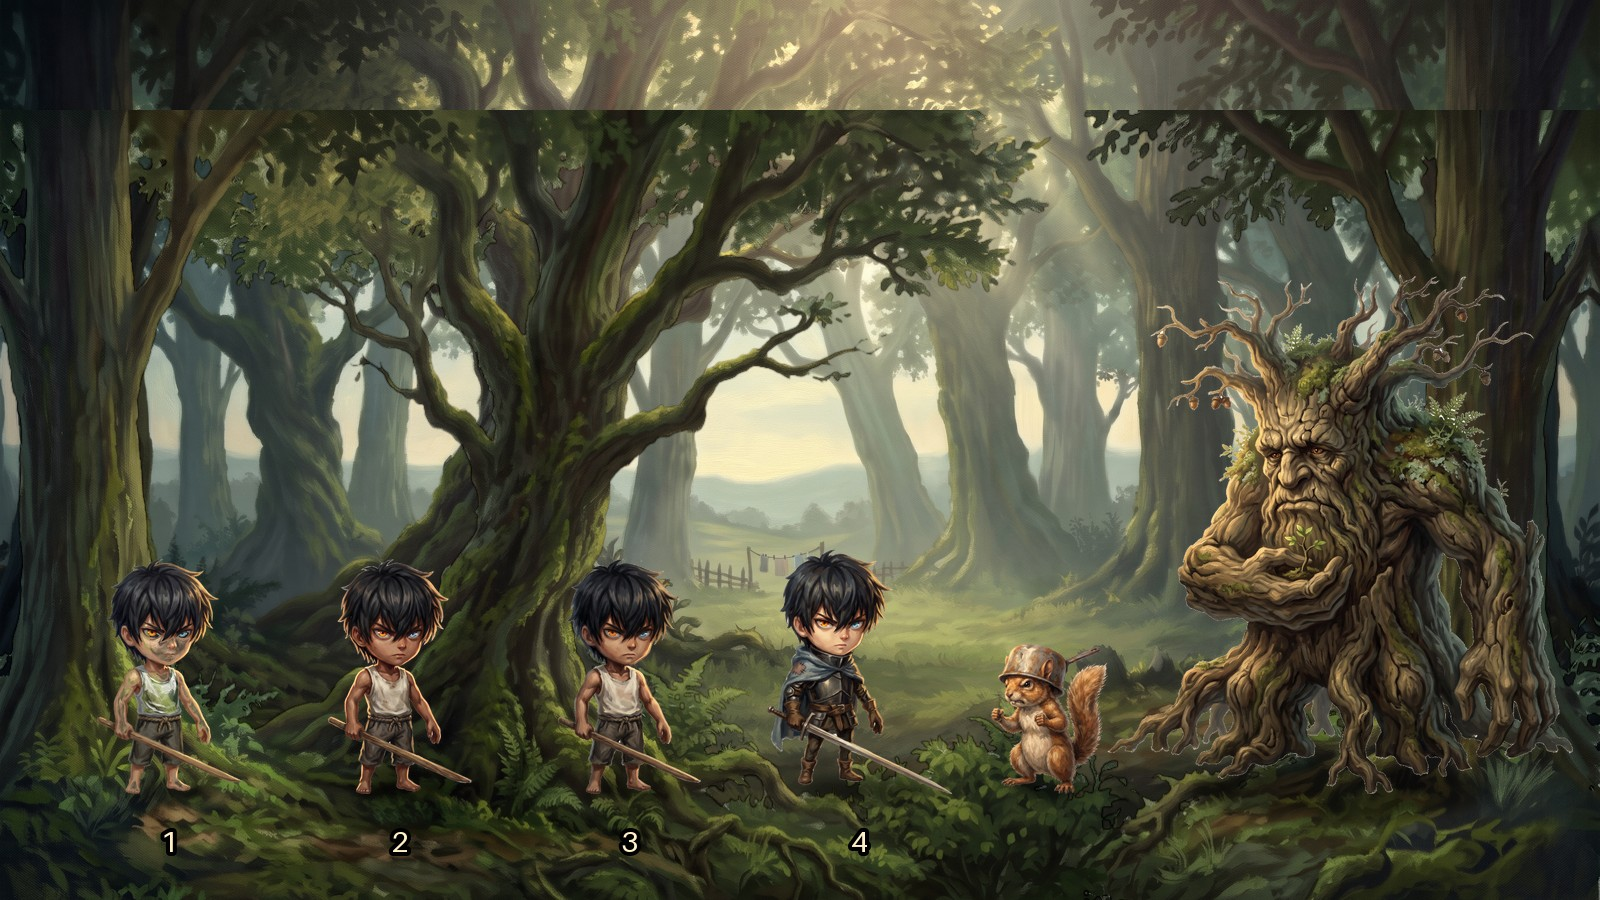
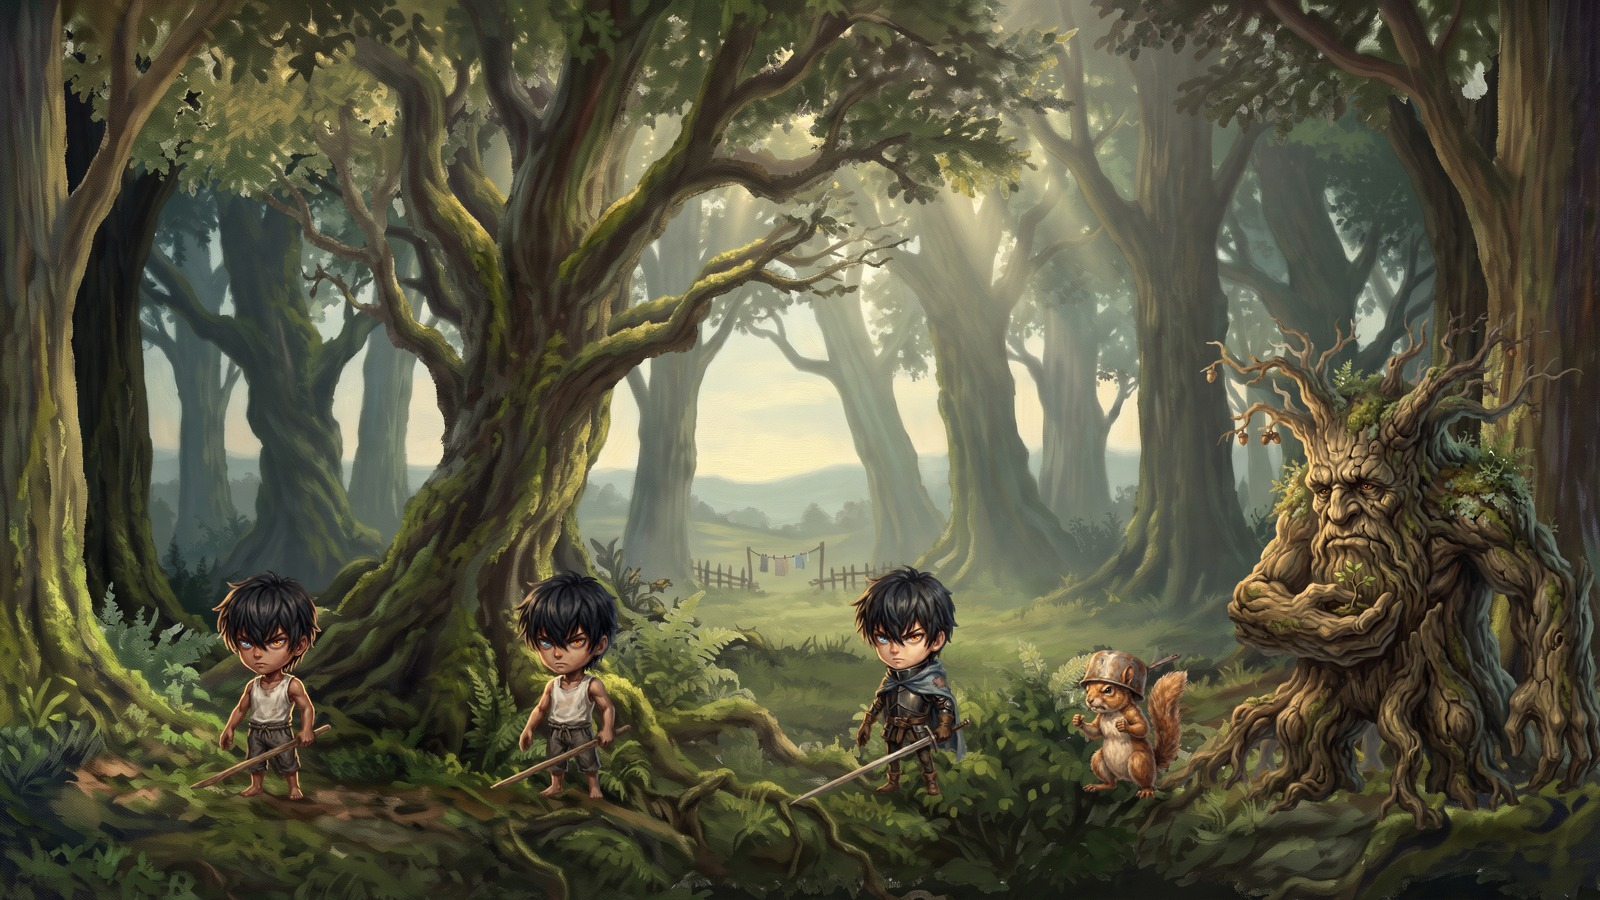
누끼를 원본 크기로 다시 따고 손가락 사이 흰 틈과 테두리 흰 기운을 없앴다
새 도구 tools/cutout2.py: 갇힌 흰 틈을 작은 것까지 지우고 테두리 색을 안쪽 색으로 고친다.

Claude-Session: https://claude.ai/code/session_019ctizXgKMq2Zc4rqnxPXRD

diff --git a/tools/cutout2.py b/tools/cutout2.py
@@ -1,0 +1,131 @@
+#!/usr/bin/env python3
+"""흰 배경 그림(유화풍 캐릭터·몬스터·무기)을 투명한 PNG로 만든다. 원본 크기 그대로 딴다.
+
+  python3 tools/cutout2.py 입력.png 출력.png [--눈=x0,y0,x1,y1]
+
+- 가장자리와 이어진 흰 배경을 지운다.
+- 손가락 사이, 팔과 몸 사이, 다리 사이처럼 사방이 막힌 곳에 갇힌 순백도 작은 것까지 지운다.
+- 테두리에 묻은 흰 기운을 안쪽 색으로 바꿔서, 어두운 배경에 올려도 밝은 띠가 생기지 않는다.
+- 눈의 반짝임처럼 지우면 안 되는 흰 점은 --눈 으로 네모 칸을 알려 주면 남긴다(여러 번 줄 수 있다).
+- 그래도 남는 깊은 틈(쥔 손 안쪽 등)은 --틈=x0,y0,x1,y1 로 네모 칸을 짚어 주면 그 안의 흰색을 지운다.
+- 나무가 가장자리까지 꽉 찬 배경 겹은 --흰종이 를 붙인다.
+- 다 딴 뒤에는 반드시 어두운 바탕과 분홍 바탕에 올려 확대해서 확인한다(tools/cutout2.py --확인 그림.png 확인.jpg).
+"""
+import sys
+import numpy as np
+from PIL import Image
+from scipy import ndimage as nd
+
+PAPER = 12       # 종이색에서 이만큼 안쪽이면 종이로 본다
+LOW, HIGH = 10, 60  # 가장자리에서 반투명이 시작되는 / 완전히 불투명해지는 차이
+POCKET_MIN = 12  # 이 넓이(픽셀, 2048 기준)보다 큰 갇힌 흰 덩어리를 지운다
+BAND = 5         # 테두리에서 이 폭(픽셀)만큼 흰 기운을 걷어 낸다
+
+
+def cutout(src, dst, keep=(), flip=False, holes=(), paper=None):
+    im = Image.open(src).convert('RGB')
+    if flip:
+        im = im.transpose(Image.FLIP_LEFT_RIGHT)
+    a = np.asarray(im).astype(np.float32)
+    h, w = a.shape[:2]
+    k = max(w, h) / 2048.0
+    edge = np.concatenate([a[:12].reshape(-1, 3), a[-12:].reshape(-1, 3), a[:, :12].reshape(-1, 3), a[:, -12:].reshape(-1, 3)])
+    # 그림이 가장자리까지 꽉 찬 배경 겹은 가장자리 색이 종이색이 아니다. 그럴 땐 paper=(255,255,255)를 준다.
+    paper = np.median(edge, axis=0) if paper is None else np.array(paper, np.float32)
+    dist = np.abs(a - paper).max(axis=2)
+
+    lab, n = nd.label(dist < PAPER)
+    outer_ids = np.unique(np.concatenate([lab[0], lab[-1], lab[:, 0], lab[:, -1]]))
+    outer_ids = outer_ids[outer_ids > 0]
+    bg = np.isin(lab, outer_ids)
+    # 갇힌 흰 틈
+    sizes = nd.sum(np.ones_like(lab), lab, np.arange(1, n + 1))
+    objs = nd.find_objects(lab)
+    removed, kept = [], []
+    for i in range(n):
+        if (i + 1) in outer_ids or sizes[i] < POCKET_MIN * k * k:
+            continue
+        ys, xs = objs[i]
+        cx, cy = (xs.start + xs.stop) // 2, (ys.start + ys.stop) // 2
+        if any(x0 <= cx <= x1 and y0 <= cy <= y1 for x0, y0, x1, y1 in keep):
+            kept.append((int(sizes[i]), cx, cy))
+            continue
+        bg |= lab == i + 1
+        removed.append((int(sizes[i]), cx, cy))
+
+    # 손으로 짚어 준 틈: 그 네모 칸 안의 밝은 점을 전부 배경으로 본다
+    for x0, y0, x1, y1 in holes:
+        bg[y0:y1, x0:x1] |= dist[y0:y1, x0:x1] < 60
+
+    # 틈의 꼬리: 손가락 사이처럼 한두 픽셀 폭으로 가늘게 이어지는 흰 금은 조각조각 끊겨서 위에서 빠진다.
+    # 이미 지운 배경 바로 곁(4픽셀 안)에 있는 밝은 조각을 크기와 상관없이 따라가며 지운다.
+    lab2, n2 = nd.label(dist < 30)
+    reach = max(2, round(4 * k))
+    for _ in range(12):
+        touch = np.unique(lab2[nd.binary_dilation(bg, iterations=reach) & ~bg])
+        touch = touch[touch > 0]
+        add = np.isin(lab2, touch) & ~bg
+        for x0, y0, x1, y1 in keep:
+            add[y0:y1, x0:x1] = False
+        # 손가락 사이의 외딴 실금: 순백에 가까운 작은 조각이 배경에서 14픽셀 안에 있으면 지운다
+        far = np.unique(lab[nd.binary_dilation(bg, iterations=round(14 * k)) & ~bg])
+        far = far[far > 0]
+        far = far[sizes[far - 1] >= 3]
+        add |= np.isin(lab, far) & ~bg
+        for x0, y0, x1, y1 in keep:
+            add[y0:y1, x0:x1] = False
+        if not add.any():
+            break
+        bg |= add
+
+    # 배경 바로 옆의 밝은 번짐까지 반투명으로
+    near = nd.binary_dilation(bg, iterations=max(2, round(4 * k)))
+    soft = np.clip((dist - LOW) / (HIGH - LOW), 0, 1)
+    alpha = np.where(bg, 0.0, np.where(near, soft, 1.0))
+
+    # 테두리 색 고치기: 테두리 띠에서, 안쪽보다 밝은(=흰 기운이 묻은) 점은 가장 가까운 안쪽 색으로 바꾼다
+    solid = alpha >= 0.999
+    inner = nd.binary_erosion(solid, iterations=max(2, round(BAND * k)))
+    if inner.any():
+        _, (iy, ix) = nd.distance_transform_edt(~inner, return_indices=True)
+        srcc = a[iy, ix]
+        band = ~inner & (alpha > 0)
+        lum = a @ np.array([.299, .587, .114], np.float32)
+        slum = srcc @ np.array([.299, .587, .114], np.float32)
+        # 흰색 쪽으로 물든 정도: 밝아졌고 채도도 빠진 점
+        sat = a.max(2) - a.min(2)
+        ssat = srcc.max(2) - srcc.min(2)
+        fix = band & (lum > slum + 10) & ((alpha < 0.999) | (sat < ssat + 6))
+        a = np.where(fix[..., None], srcc, a)
+    out = np.dstack([np.clip(a, 0, 255), alpha * 255]).astype(np.uint8)
+    Image.fromarray(out, 'RGBA').save(dst)
+    return removed, kept
+
+
+def check(png, jpg, zoom=1):
+    """어두운 초록·분홍 바탕에 나란히 올린 확인 그림을 만든다."""
+    im = Image.open(png).convert('RGBA')
+    box = im.getbbox()
+    tiles = []
+    for col in ((18, 40, 24, 255), (255, 0, 255, 255)):
+        b = Image.new('RGBA', im.size, col)
+        b.alpha_composite(im)
+        tiles.append(b.crop(box).convert('RGB'))
+    o = Image.new('RGB', (tiles[0].width * 2, tiles[0].height))
+    o.paste(tiles[0], (0, 0))
+    o.paste(tiles[1], (tiles[0].width, 0))
+    if zoom != 1:
+        o = o.resize((int(o.width * zoom), int(o.height * zoom)), Image.LANCZOS)
+    o.save(jpg, quality=92)
+
+
+if __name__ == '__main__':
+    args = [x for x in sys.argv[1:] if not x.startswith('--')]
+    if '--확인' in sys.argv:
+        check(args[0], args[1])
+    else:
+        keep = [tuple(int(v) for v in x.split('=')[1].split(',')) for x in sys.argv[1:] if x.startswith('--눈=')]
+        holes = [tuple(int(v) for v in x.split('=')[1].split(',')) for x in sys.argv[1:] if x.startswith('--틈=')]
+        rm, kp = cutout(args[0], args[1], keep=keep, holes=holes, paper=(255, 255, 255) if '--흰종이' in sys.argv else None)
+        print('지운 틈:', rm)
+        print('남긴 점:', kp)
